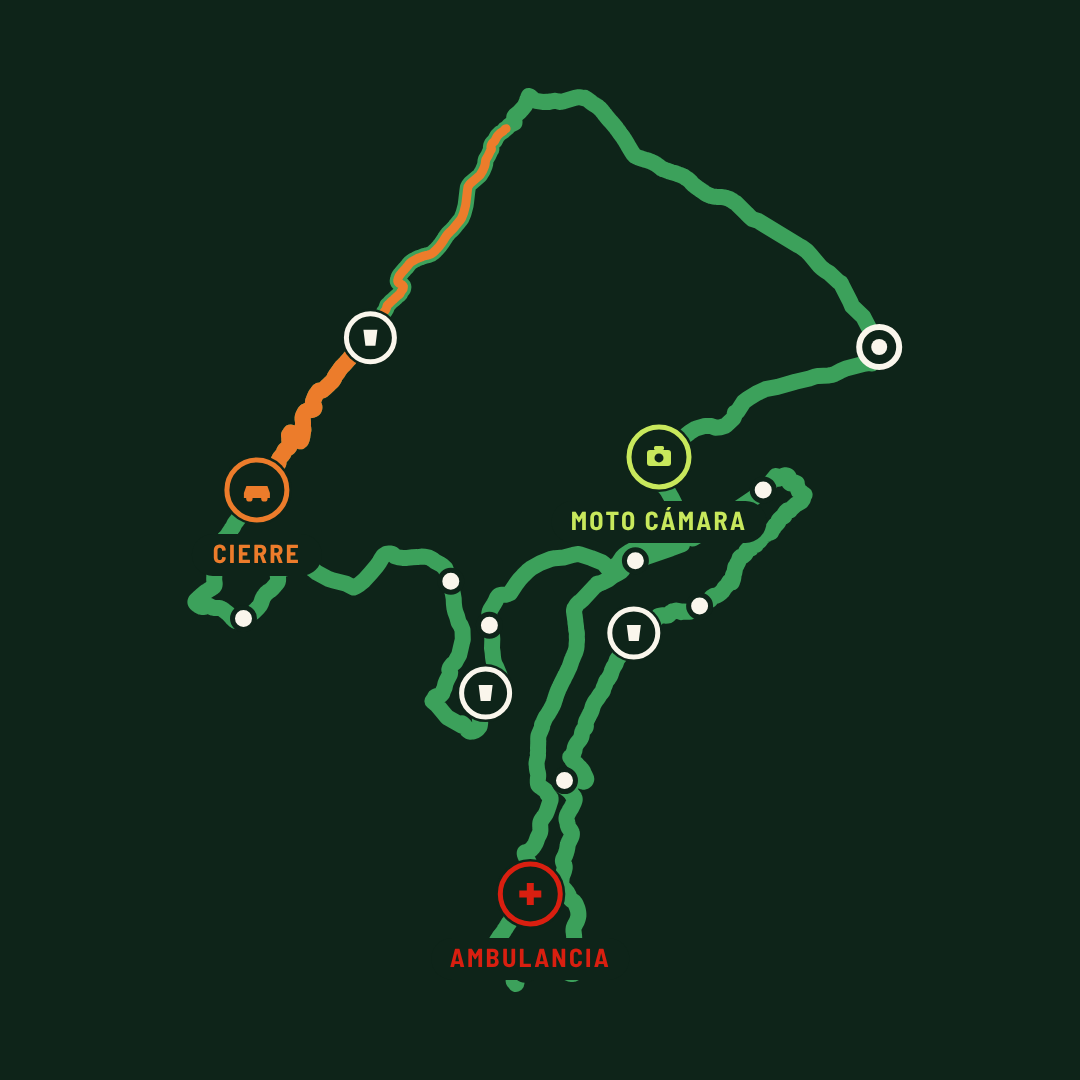
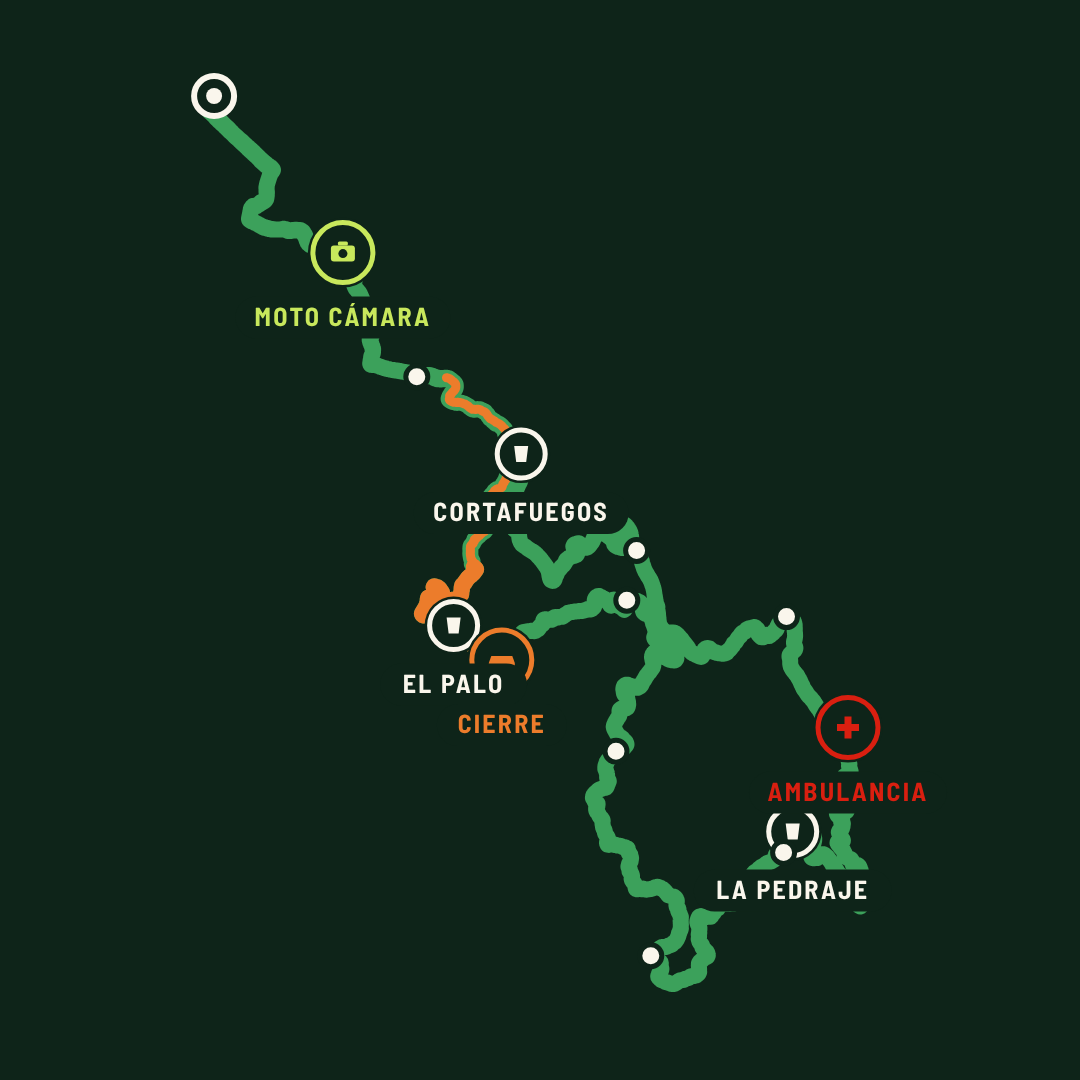
feat(social): el mapa coge los avituallamientos por km y con su nombre
Es como los define una carrera de verdad: docs/eventos/eventos/gurriana-trail-2027.json
trae siete con nombre, kilometro y hora de corte. Se pasan con --km y
--avituallamientos, y el de meta se descarta solo porque en un circular cae
encima de la salida.

El dibujo pasa a tres capas y las etiquetas van las ultimas: antes un punto
de corredor o un pin caia encima de una etiqueta y se comia media palabra.

Claude-Session: https://claude.ai/code/session_01UGMKEj7noQJpvPzyxwB7ry

Changed region(s): [[0.1528, 0.0611, 0.8556, 0.9167]]

diff --git a/plantillas/README.md b/plantillas/README.md
@@ -218,10 +218,25 @@ sin recorte ni marco. **No es un pantallazo de Mapbox a propósito**: el mapa
 real mete su propio gris y su interfaz, y a tamaño de Instagram no se lee
 nada.
 
-Dónde va cada cosa se fija arriba del fichero, en fracción del recorrido
-(`0` salida, `1` meta): `AVITUALLAMIENTOS`, `VEHICULOS` y `CORREDORES`. Hay
-que tocarlos a ojo según la forma de la traza, porque dos marcadores en
-fracciones lejanas pueden caer pegados en el dibujo.
+Los avituallamientos se pasan **por kilómetro y con su nombre**, que es como
+los define una carrera de verdad (`docs/eventos/eventos/*.json`), junto con
+el total del recorrido:
+
+```sh
+node plantillas/herramientas/mapa.mjs ruta.gpx capturas/mapa.png \
+  --km=37.2 --avituallamientos="4:El Palo,9:La Pedraje,21:Bustriguado,32:Cortafuegos"
+```
+
+El de meta se descarta solo: en un circular cae encima de la salida.
+
+Los vehículos y el pelotón siguen fijados arriba del fichero en fracción del
+recorrido (`VEHICULOS`, `CORREDORES`). Hay que tocarlos a ojo según la forma
+de la traza, porque dos marcadores en fracciones lejanas pueden caer pegados
+en el dibujo.
+
+El dibujo va en tres capas —trazas, pines y etiquetas— y las etiquetas van
+siempre las últimas: si se mezclan, un punto de corredor o un pin cae encima
+de una etiqueta y se come media palabra.
 
 Dos cosas que ya costaron una vuelta:
 
